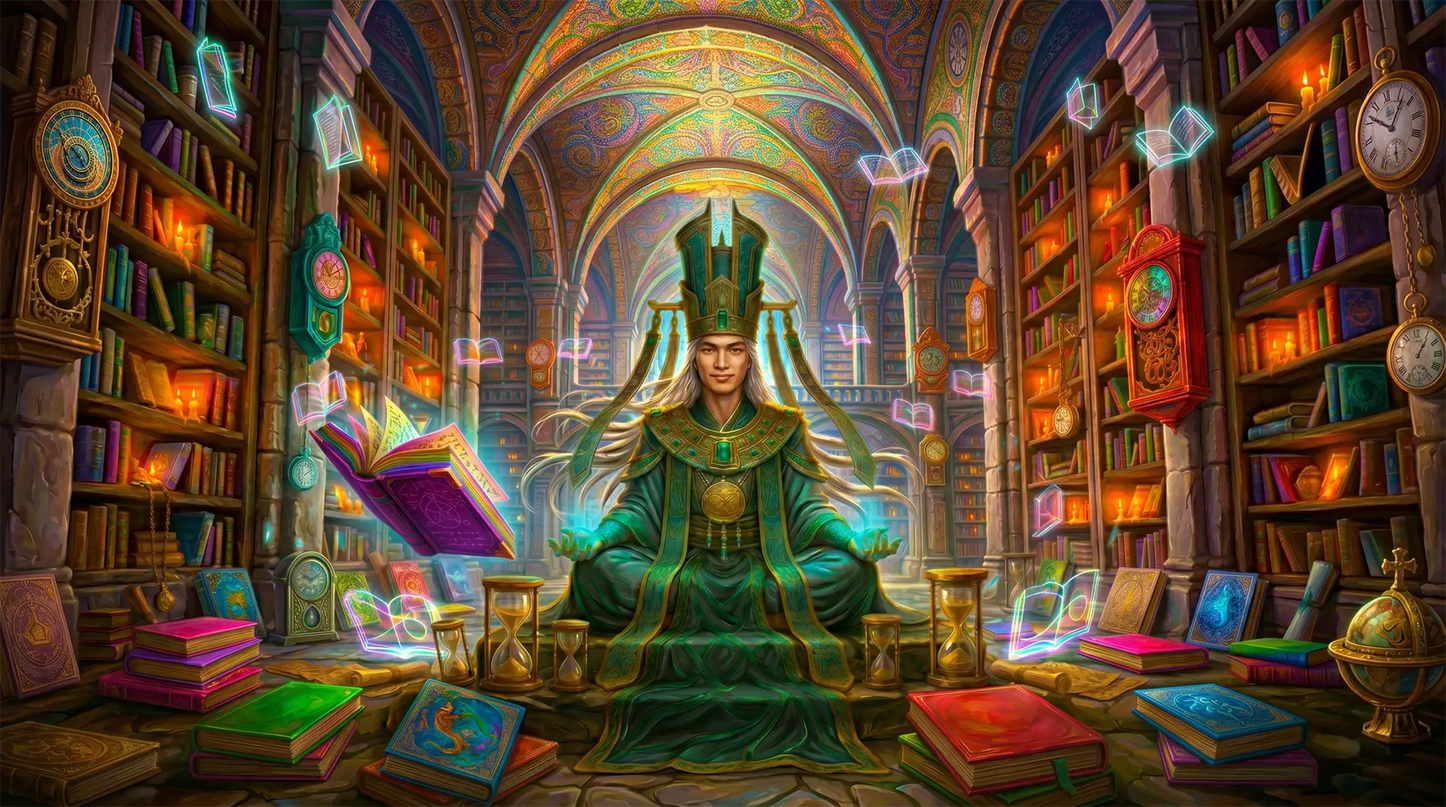
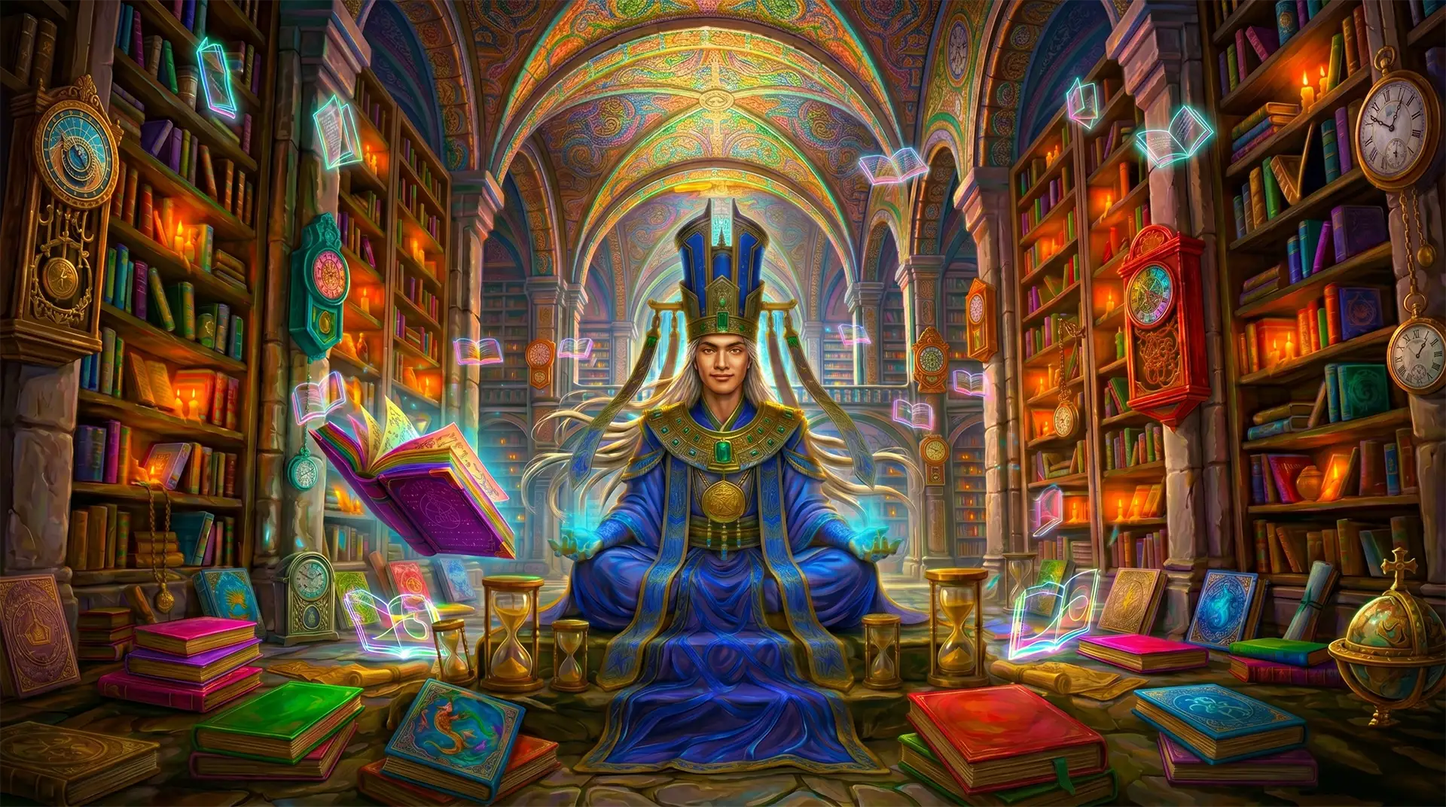
All gods updated

diff --git a/data/characters.js b/data/characters.js
@@ -245,7 +245,7 @@ var CHARACTERS = [
     affiliation: "The Stillkeep (primary worship)",
     religion: ["stillkeep"],
     summary: "God of memory, deep time, and patience. Born as an independent god from the Partition \u2014 sheared from Nara by the collision into full separate divinity. Worshipped by the Stillkeep, a monastic order of record-keepers and patient observers.",
-    appearance: "The color of something that has waited a very long time and knows it will wait longer.",
+    appearance: "A scholar in repose — seated cross-legged on a stone floor, robes of deep royal blue trimmed in gold. A tall crown of blue and gold, a single emerald at its center. Silver-white hair falls to the ground around him. He is surrounded by floating books that turn their own pages, hourglasses running in every direction, clocks that do not agree on the time. He is smiling. He has read all of them. He has time to read them again.",
     personality: "Contemplative. Patient beyond human comprehension. Has a view on the Partition that the Stillkeep has been trying to transcribe for eight hundred years and has not captured.",
     motivation: "Memory. The continued existence and accuracy of what has happened. Thyun does not want to change the past \u2014 Thyun wants the past to be known.",
     contradiction: "Holds Grak's grief as legitimate \u2014 the Stillkeep's account says the Partition was preventable if Oro and Nara had listened. Whether Thyun shares this view, or whether the Stillkeep arrived at it through contact with Thyun or through their own reasoning, has not been confirmed.",
@@ -253,7 +253,7 @@ var CHARACTERS = [
     player_knowledge: "God of memory and patience. Born from the Partition. Worshipped by the Stillkeep.",
     dm_notes: "Thyun's worshippers are the record-keepers. If there is a historical fact the players need, the Stillkeep probably has it. If the Stillkeep does not have it, Thyun might, and reaching that would be a quest in itself.",
     gigglegloom_relationship: "Memory and the Gigglegloom are intertwined \u2014 the Solvanu believe color is the world's memory. Thyun and this belief may be more directly connected than the Solvanu know.",
-    color: "The color of waiting \u2014 deep, still, not grey",
+    color: "Royal blue \u2014 deep and still, the color of a library at midnight",
     image: "assets/images/characters/thyun.webp",
     tags: ["god", "active", "stillkeep", "memory", "patience", "partition-born", "thyun"],
     associated: [

diff --git a/welcome.html b/welcome.html
@@ -549,7 +549,7 @@
   }
   .god-oro .god-portrait-wrap     { box-shadow: 0 0 0 1px rgba(248,224,112,0.25); }
   .god-nara .god-portrait-wrap    { box-shadow: 0 0 0 1px rgba(106,200,138,0.25); }
-  .god-thyun .god-portrait-wrap   { box-shadow: 0 0 0 1px rgba(138,184,248,0.25); }
+  .god-thyun .god-portrait-wrap   { box-shadow: 0 0 0 1px rgba(80,130,240,0.25); }
   .god-solvara .god-portrait-wrap { box-shadow: 0 0 0 1px rgba(192,152,248,0.25); }
   .god-grak .god-portrait-wrap    { box-shadow: 0 0 0 1px rgba(120,120,120,0.2); }
   .god-card-body {
@@ -561,7 +561,7 @@
   }
   .god-oro .god-orb   { background: radial-gradient(circle, #f8e888, #e8c84a); }
   .god-nara .god-orb  { background: radial-gradient(circle, #a8f0c8, #6ac88a); }
-  .god-thyun .god-orb { background: radial-gradient(circle, #a8f0e8, #2ab8a0); }
+  .god-thyun .god-orb { background: radial-gradient(circle, #90b8ff, #3060d0); }
   .god-solvara .god-orb { background: radial-gradient(circle, #d8b8f8, #9a70e8); }
   .god-grak .god-orb  { background: radial-gradient(circle, #888888, #444444); }
   .god-name {
@@ -570,7 +570,7 @@
   }
   .god-oro .god-name    { color: #f8e070; }
   .god-nara .god-name   { color: #6ac88a; }
-  .god-thyun .god-name  { color: #3dd4b8; }
+  .god-thyun .god-name  { color: #6090f0; }
   .god-solvara .god-name { color: #c098f8; }
   .god-grak .god-name   { color: #888888; }
   .god-domain {
